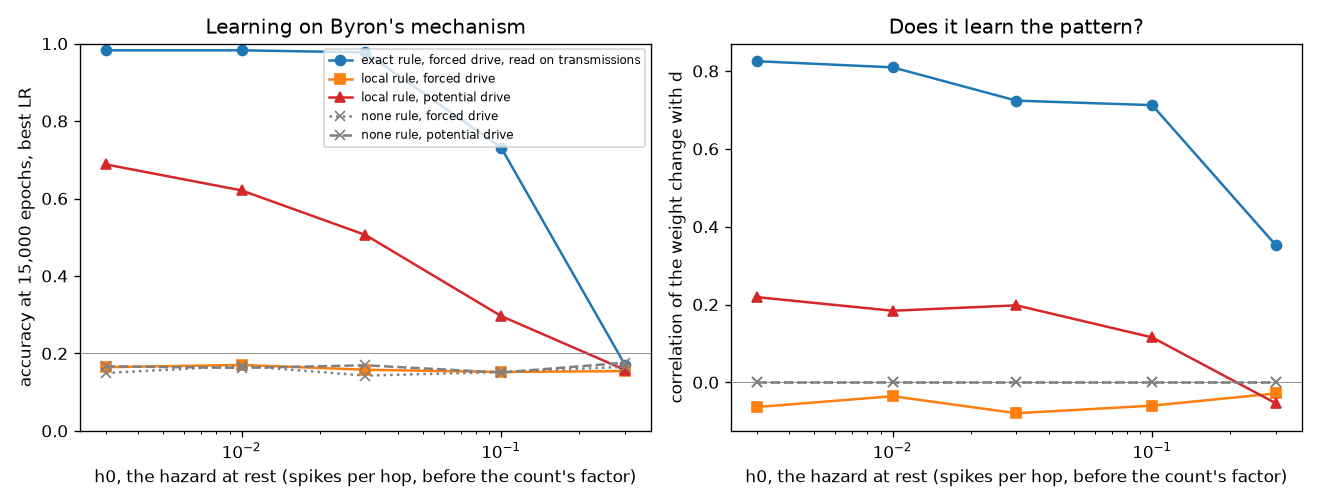
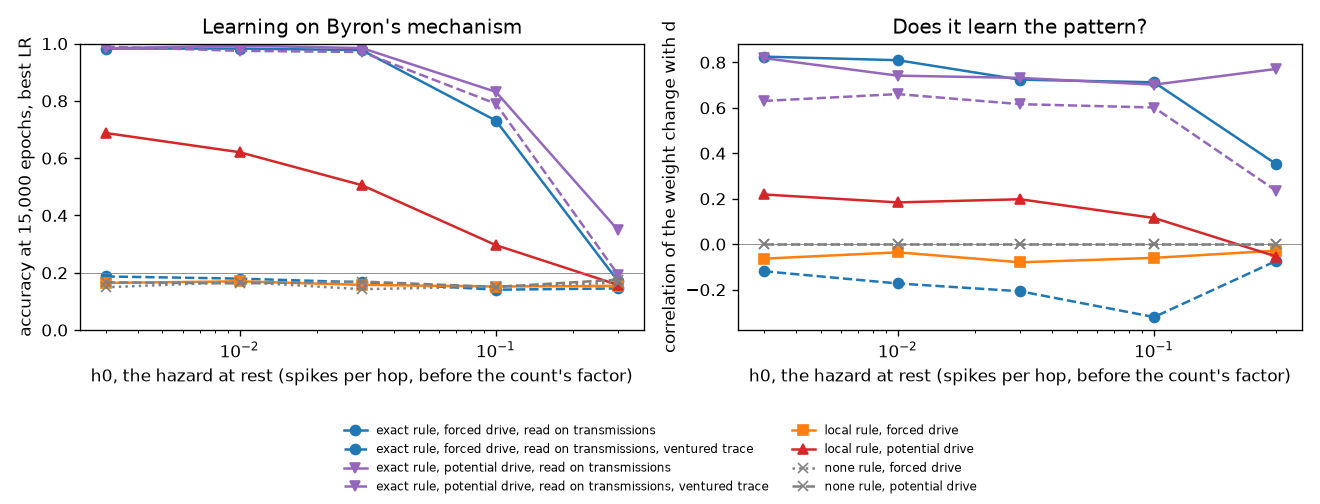
7.12 measured: the ventured trace ends learning under the forced drive and costs little under a charged one
Byron, September 23, 2026: "Run the toy with that flag." The exact rule with
the read on transmissions, both drives, both traces, five rest hazards, four
learning rates, three seeds. Under the file's forced drive every ventured arm
sits at chance with the weight change anticorrelated with the supervised
direction: what a forced input's synapses venture carries no pattern, and the
relayed deliveries that do are the ones the idea discounts. Under the charged
drive the idea costs little and at the smallest rest hazard nothing (0.97 to
0.99 against 0.98 to 0.99; 0.8 in 3,750 to 6,750 epochs against 3,000 to
4,500). The best exact arm on this mechanism is the charged drive with the
full trace: 0.993 at h0 0.01, 0.8 in 3,000 epochs against today's 2,250. The
figure's legend moves below the panels.

diff --git a/docs/synaptic-noise-toy2-report.py b/docs/synaptic-noise-toy2-report.py
@@ -108,8 +108,9 @@ def main():
     ax2.axhline(0, color="gray", lw=0.5)
     ax2.set_ylabel("correlation of the weight change with d")
     ax2.set_title("Does it learn the pattern?")
-    ax1.legend(fontsize=7)
-    fig_.tight_layout()
+    handles, labels = ax1.get_legend_handles_labels()
+    fig_.legend(handles, labels, loc="lower center", ncol=2, fontsize=7, frameon=False)
+    fig_.tight_layout(rect=[0, 0.2, 1, 1])
     fig_.savefig(fig, dpi=120)
     print(f"\nfigure: {fig}")
 

diff --git a/docs/synaptic-escape-noise-2026-09-22.md b/docs/synaptic-escape-noise-2026-09-22.md
@@ -924,6 +924,39 @@ what it ventured and not for what it relayed. That estimator is not Williams's
 and would be biased toward the ventured deliveries; whether it learns better
 or worse is a measurement the second toy can make with one flag.
 
+**Measured, September 23, 2026, on Byron's "Run the toy with that flag."**
+`--trace ventured` in `docs/synaptic-noise-toy2.py`: the trace counts the
+deliveries the synapse ventured and not the ones it relayed with its source's
+spike; the potential still takes every delivery. The exact rule with the read
+on transmissions, both drives, both traces, five rest hazards, four learning
+rates, three seeds, 15,000 epochs; each cell the best learning rate's arm,
+accuracy at 15,000 with the epochs to 0.8 in brackets:
+
+| `h0` | forced drive, all | forced, ventured | charged drive, all | charged, ventured |
+|---|---|---|---|---|
+| 0.3 | 0.17 | 0.15 | 0.35 | 0.19 |
+| 0.1 | 0.73 | 0.14 | 0.83 (12,000) | 0.79 |
+| 0.03 | 0.977 (5,250) | 0.17 | 0.984 (4,500) | 0.971 (6,750) |
+| 0.01 | 0.983 (4,500) | 0.18 | 0.993 (3,000) | 0.975 (6,000) |
+| 0.003 | 0.983 (5,250) | 0.19 | 0.984 (4,500) | 0.989 (3,750) |
+
+Under the file's forced drive the idea ends learning: every ventured arm sits
+at chance, with the weight change anticorrelated with the supervised
+direction (-0.07 to -0.32). A forced input sits at zero between its spikes,
+so what its synapses venture carries no pattern, and the deliveries that do
+carry it are exactly the relayed ones the idea discounts. Under the charged
+drive the idea costs little and at the smallest rest hazard nothing: 0.97 to
+0.99 against 0.98 to 0.99, reaching 0.8 in 3,750 to 6,750 epochs against
+3,000 to 4,500, along a direction a little further from the supervised one
+(correlation 0.60 to 0.66 against 0.70 to 0.82). The charged drive with the
+full trace is the best exact-rule arm measured on this mechanism, 0.993 at
+`h0` = 0.01 and 0.8 in 3,000 epochs against today's 2,250.
+
+So the idea is a statement about the drive as much as about the synapse: a
+synapse can afford to learn only from what it ventured where an input's
+subthreshold potential carries the pattern, and not where the input is forced.
+On the mnist goo as driven today it would learn nothing.
+
 ## 8. Sources
 
 All in `references/` already; none fetched for this note.
